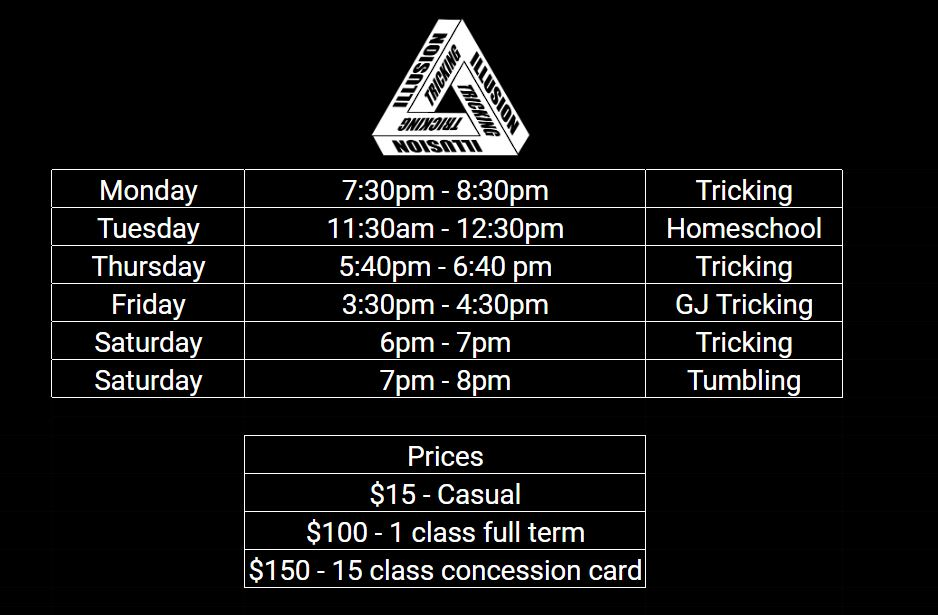
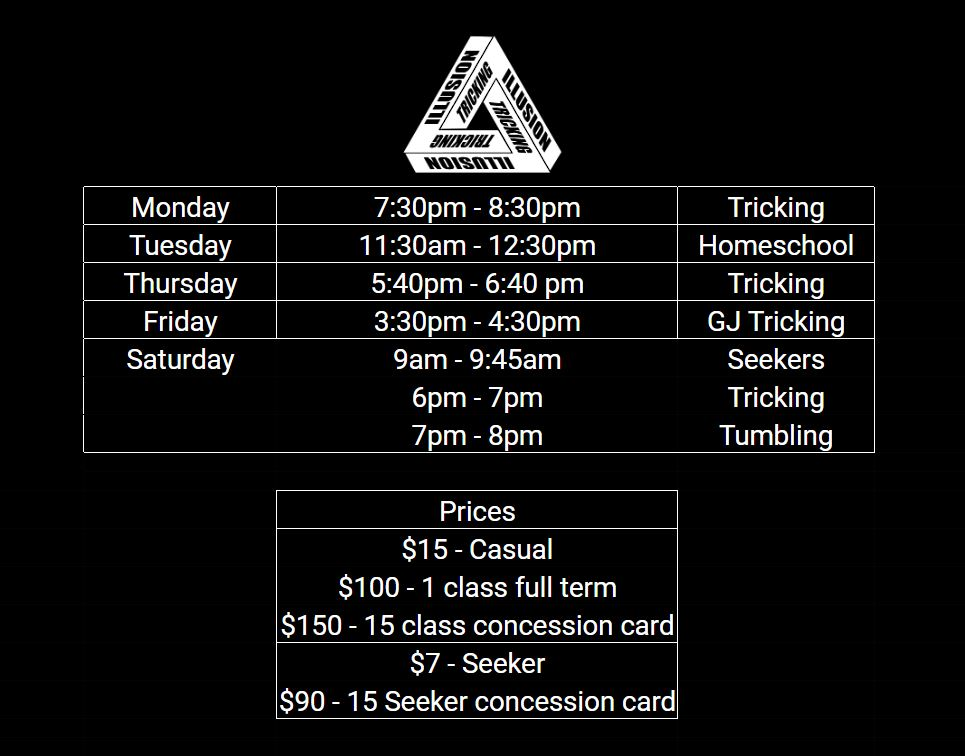
term 4 update

Changed region(s): [[0.0618, 0.0309, 0.9275, 0.9577], [0.2783, 0.7415, 0.3092, 0.7724]]

diff --git a/pages/classes.jsx b/pages/classes.jsx
@@ -8,8 +8,9 @@ const classes = () => {
         <div>
             <Hero 
             heading='Classes' 
-            message='Timetable and prices for Term three below.' 
-            message1='Go to contact to enroll or message us on facebook.'
+            message='For Term 4 we are introducing a Saturday Seekers class for ages under 5 to attend with a caregiver' 
+            message1='Timetable and prices for Term 4 below.'
+            message2='Go to contact to enroll or message us on facebook.'
             frame='https://www.google.com/maps/embed?pb=!1m14!1m8!1m3!1d12113.28797635662!2d175.2732981!3d-40.6227804!3m2!1i1024!2i768!4f13.1!3m3!1m2!1s0x6d40f3c0a249b621%3A0x26a007b65b89dbfd!2sIllusion%20Tricking!5e0!3m2!1sen!2snz!4v1706745810973!5m2!1sen!2snz" width="600" height="450" style="border:0;" allowfullscreen="" loading="lazy" referrerpolicy="no-referrer-when-downgrade' 
             />
             <Class />
